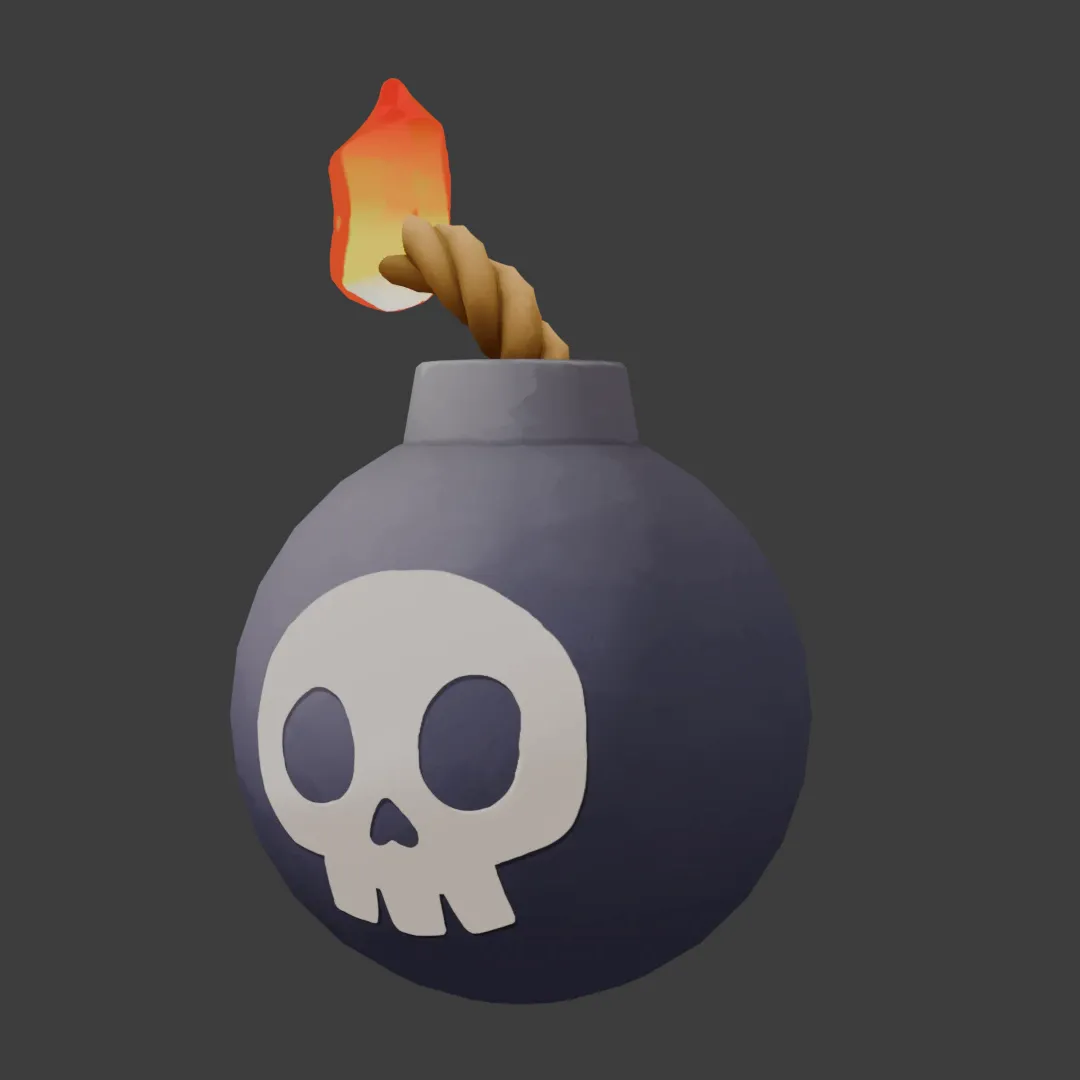
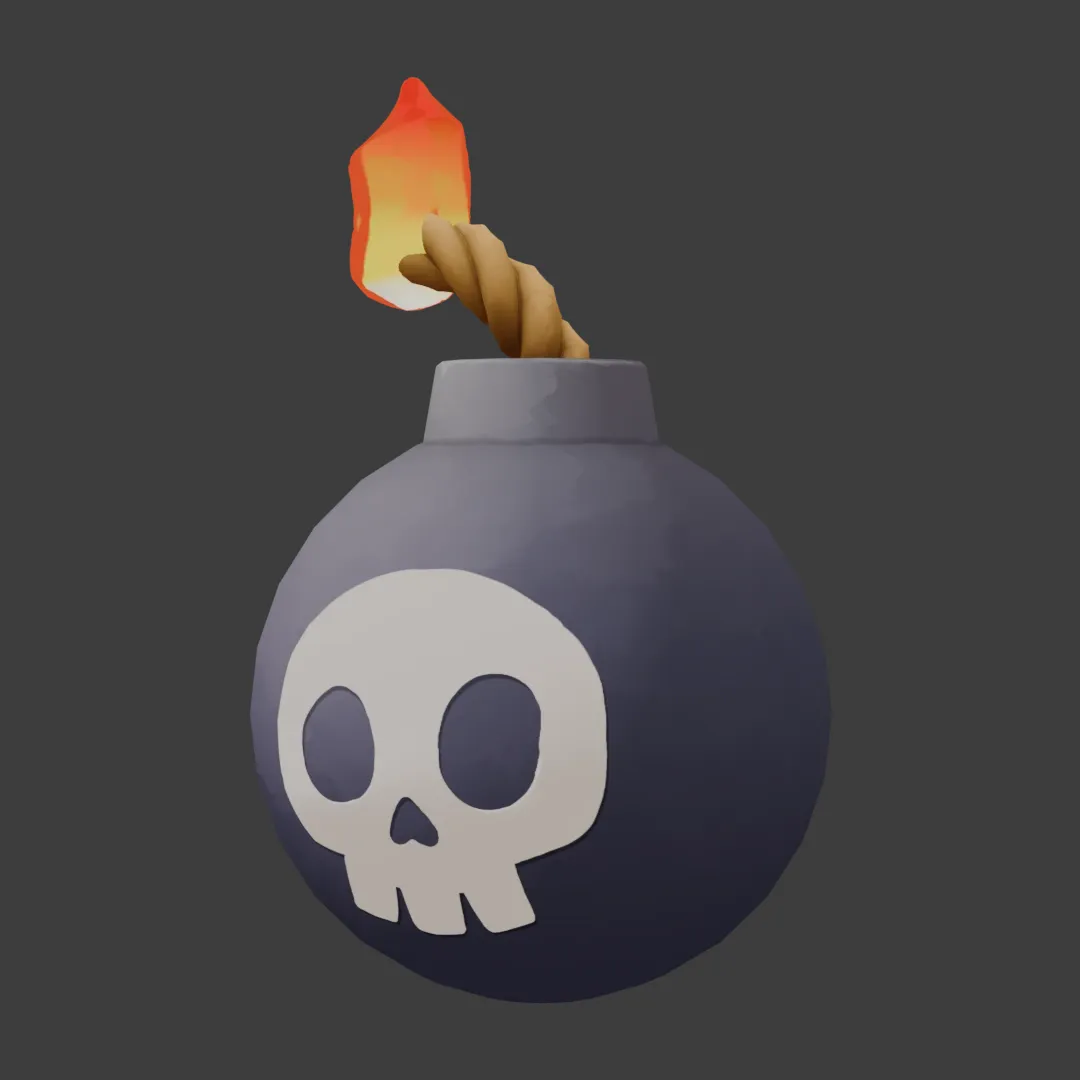
Center bomb images; move Bomb after Hatchet
Bomb images re-centred on the model's bounds. Vehicles moves before
Circus so props rows stay full.

diff --git a/index.html b/index.html
@@ -526,15 +526,15 @@ window.scrollTo(0,0);
       <a class="tile rv" data-cat="env" href="#work" data-images="img/vecna.webp|img/vecna-wire.webp|img/vecna-wire-2.webp|img/vecna-wire-3.webp" data-captions="Final render|Clay render|Clay detail|Clay with foliage"><div class="frame real"><img src="img/vecna.webp" alt="Victorian house on a pale teal background" loading="lazy"><span class="view">View images</span></div><div class="meta"><h3 class="h3">Vecna House</h3><span class="cat">Environment</span></div></a>
       <div class="ghead" data-group="prop"><h3 class="h3">Stylized props</h3><span>Game-ready, low poly, hand-painted</span></div>
       <a class="tile feature rv" data-cat="prop" href="#work" data-images="img/hatchet-color.webp|img/hatchet-side.webp|img/hatchet-wire.webp|img/hatchet-side-wire.webp|img/hatchet-ids.webp|img/hatchet-side-ids.webp" data-captions="Front, textured|Side, textured|Front wireframe|Side wireframe|Front, material IDs|Side, material IDs"><div class="frame real" style="background:#373737"><img src="img/hatchet-color.webp" alt="Stylized hatchet with red wrapped wooden handle" loading="lazy" style="object-fit:contain;--s:1.3"><span class="badge">Interactive</span><span class="view">View images</span></div><div class="meta"><h3 class="h3">Stylized Hatchet</h3><span class="cat">Stylized prop &middot; Hand-painted</span></div></a>
+      <a class="tile rv" data-cat="prop" href="#work" data-images="img/bomb-render-1.webp|img/bomb-wire-1.webp|img/bomb-render-2.webp|img/bomb-wire-2.webp" data-captions="Render, front|Wireframe, front|Render, three-quarter|Wireframe, three-quarter"><div class="frame real" style="background:#3C3C3C"><img src="img/bomb-render-1.webp" alt="Stylized cartoon bomb with skull mark and lit rope fuse" loading="lazy" style="object-fit:contain"><span class="view">View images</span></div><div class="meta"><h3 class="h3">Stylized Bomb</h3><span class="cat">Stylized prop &middot; Hand-painted</span></div></a>
       <a class="tile rv" data-cat="prop" href="#work" data-images="img/potion-render-1.webp|img/potion-wire-1.webp|img/potion-render-3.webp|img/potion-wire-3.webp" data-captions="Render, front|Wireframe, front|Render, side|Wireframe, side"><div class="frame real" style="background:#3C3C3C"><img src="img/potion-render-1.webp" alt="Round stylized potion bottle with cork, hand-painted render" loading="lazy" style="object-fit:contain"><span class="view">View images</span></div><div class="meta"><h3 class="h3">Potion Bottle</h3><span class="cat">Stylized prop</span></div></a>
       <a class="tile rv" data-cat="prop" href="#work" data-images="img/bow-color.webp|img/bow-wire.webp" data-captions="Textured|Wireframe"><div class="frame real" style="background:#3C3C3C"><img src="img/bow-color.webp" alt="Stylized recurve bow with wooden limbs, bone tips and leather grip" loading="lazy" style="object-fit:contain"><span class="view">View images</span></div><div class="meta"><h3 class="h3">Stylized Bow</h3><span class="cat">Stylized prop &middot; Hand-painted</span></div></a>
-      <a class="tile feature rv" data-cat="prop" href="#work" data-images="img/circus.webp" data-captions="Textured"><div class="frame real" style="background:#3a3a3a"><img src="img/circus.webp" alt="Stylized circus props: popcorn stand, star boxes, jester spring and ticket booth" loading="lazy" style="object-fit:contain"><span class="badge">Shipped</span><span class="view">View images</span></div><div class="meta"><h3 class="h3">Circus Props</h3><span class="cat">Game assets &middot; Mobile</span></div></a>
       <a class="tile rv" data-cat="prop" href="#work" data-images="img/vehicles-color.webp|img/vehicles-wire.webp" data-captions="Textured|Wireframe"><div class="frame real" style="background:#3a3a3a"><img src="img/vehicles-color.webp" alt="Four stylized vehicles: school bus, truck, tram and small red car" loading="lazy"><span class="badge">Shipped</span><span class="view">View images</span></div><div class="meta"><h3 class="h3">Stylized Vehicles</h3><span class="cat">Game assets &middot; Mobile</span></div></a>
+      <a class="tile feature rv" data-cat="prop" href="#work" data-images="img/circus.webp" data-captions="Textured"><div class="frame real" style="background:#3a3a3a"><img src="img/circus.webp" alt="Stylized circus props: popcorn stand, star boxes, jester spring and ticket booth" loading="lazy" style="object-fit:contain"><span class="badge">Shipped</span><span class="view">View images</span></div><div class="meta"><h3 class="h3">Circus Props</h3><span class="cat">Game assets &middot; Mobile</span></div></a>
       <a class="tile rv" data-cat="prop" href="#work" data-images="img/staff_front.webp|img/staff_side.webp" data-captions="Front view|Side view"><div class="frame real" style="background:#373737"><img src="img/staff_front.webp" alt="Stylized mage staff with crystal top, wireframe render" loading="lazy" style="object-fit:contain;--s:1.6"><span class="view">View images</span></div><div class="meta"><h3 class="h3">Mage Staff</h3><span class="cat">Stylized prop</span></div></a>
       <a class="tile rv" data-cat="prop" href="#work" data-images="img/dagger_front.webp|img/dagger_side.webp" data-captions="Front view|Side view"><div class="frame real" style="background:#373737"><img src="img/dagger_front.webp" alt="Stylized curved dagger with wrapped grip, wireframe render" loading="lazy" style="object-fit:contain;--s:1.7"><span class="view">View images</span></div><div class="meta"><h3 class="h3">Stylized Dagger</h3><span class="cat">Stylized prop</span></div></a>
       <a class="tile rv" data-cat="prop" href="#work" data-images="img/shield_front.webp|img/shield_back.webp|img/shield_side.webp" data-captions="Front view|Back view|Side view"><div class="frame real" style="background:#373737"><img src="img/shield_front.webp" alt="Wooden round shield with metal rim and straps, wireframe render" loading="lazy" style="object-fit:contain;--s:1.25"><span class="view">View images</span></div><div class="meta"><h3 class="h3">Round Shield</h3><span class="cat">Stylized prop</span></div></a>
       <a class="tile rv" data-cat="prop" href="#work" data-images="img/weapons-solid.webp|img/weapons-wire.webp" data-captions="Solid|Wireframe"><div class="frame real" style="background:#353535"><img src="img/weapons-solid.webp" alt="Set of eight low-poly weapons: axes, hammer, swords, dagger, scimitar, glaive and bow" loading="lazy" style="object-fit:contain;--s:1.3"><span class="view">View images</span></div><div class="meta"><h3 class="h3">Low-poly Weapon Set</h3><span class="cat">Stylized props &middot; 8 weapons</span></div></a>
-      <a class="tile rv" data-cat="prop" href="#work" data-images="img/bomb-render-1.webp|img/bomb-wire-1.webp|img/bomb-render-2.webp|img/bomb-wire-2.webp" data-captions="Render, front|Wireframe, front|Render, three-quarter|Wireframe, three-quarter"><div class="frame real" style="background:#3C3C3C"><img src="img/bomb-render-1.webp" alt="Stylized cartoon bomb with skull mark and lit rope fuse" loading="lazy" style="object-fit:contain"><span class="view">View images</span></div><div class="meta"><h3 class="h3">Stylized Bomb</h3><span class="cat">Stylized prop &middot; Hand-painted</span></div></a>
       <div class="ghead" data-group="product"><h3 class="h3">Hard surface &amp; products</h3><span>Mechanical detail and studio lighting</span></div>
       <a class="tile feature rv" data-cat="product" href="#work" data-images="img/qrill.webp|img/qrill-close.webp|img/qrill-wire.webp" data-captions="Final render|Close-up|Wireframe"><div class="frame real" style="background:#000000"><img src="img/qrill.webp" alt="Teal and orange sci-fi spaceship" loading="lazy"><span class="view">View images</span></div><div class="meta"><h3 class="h3">Qrill</h3><span class="cat">Hard surface</span></div></a>
       <a class="tile rv" data-cat="product" href="#work" data-images="img/gravity.webp|img/gravity-wire.webp" data-captions="Final render|Wireframe"><div class="frame real"><img src="img/gravity.webp" alt="Water bottle on a plinth with dappled sunlight" loading="lazy"><span class="view">View images</span></div><div class="meta"><h3 class="h3">Gravity Drinking Water</h3><span class="cat">Product</span></div></a>

diff --git a/CLAUDE.md b/CLAUDE.md
@@ -56,7 +56,7 @@ When Viskit says "add/upload/update X":
 - Current order:
   - Characters: Bob (f), Frog, Spitter, Brute, Rock Golem.
   - Environments: Backrooms (f), Night Gas Station (Sex Education ref), The Desk, Rain at the Rex, Vena, Stylized Flooded Train (f), Lighthouse, Moonlit Temple (f), Vecna House.
-  - Stylized props: Hatchet (f), Potion Bottle, Stylized Bow, Circus Props (f), Stylized Vehicles, Mage Staff, Dagger, Round Shield, Low-poly Weapon Set, Stylized Bomb.
+  - Stylized props: Hatchet (f), Stylized Bomb, Potion Bottle, Stylized Bow, Stylized Vehicles, Circus Props (f), Mage Staff, Dagger, Round Shield, Low-poly Weapon Set.
   - Hard surface & products: Qrill, Gravity Drinking Water, …
 
 ## Design system (keep it)
